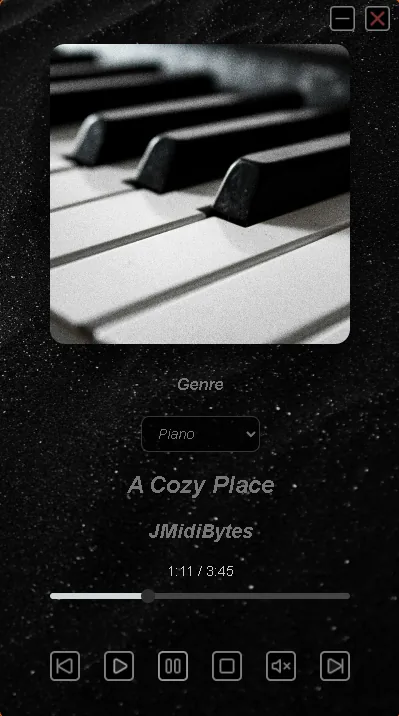
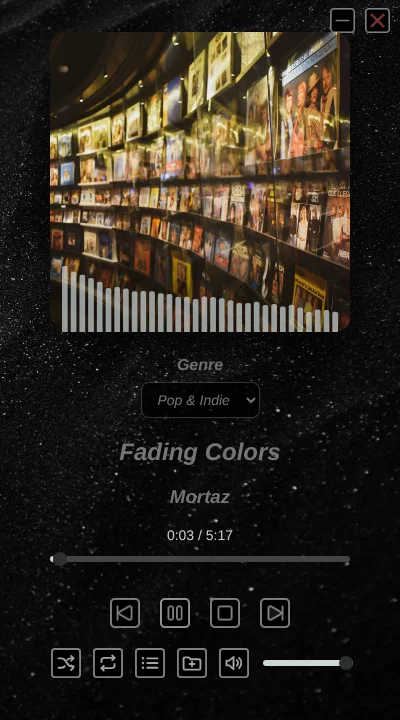
feat: update Kumafy card for v1.1.0

diff --git a/src/data/projects.ts b/src/data/projects.ts
@@ -107,31 +107,35 @@ export const projects: Project[] = [
     title: 'Kumafy',
     context: { es: 'Proyecto personal', en: 'Personal project' },
     summary: {
-      es: 'Reproductor de música de escritorio con ventana propia y tres listas por género',
-      en: 'Desktop music player with a custom window and three genre playlists',
+      es: 'Reproductor de música de escritorio con visualizador de audio en tiempo real, listas por género y la opción de abrir tus propios archivos. También funciona en el navegador',
+      en: 'Desktop music player with a live audio visualizer, genre playlists and the option to open your own files. It also runs in the browser',
     },
     highlights: [
       {
-        es: 'Controles de reproducción, barra de progreso y avance automático',
-        en: 'Playback controls, progress bar and auto-advance',
+        es: 'Archivos locales servidos por un protocolo propio que solo entrega lo que eligió el usuario, con peticiones Range para poder saltar en la canción',
+        en: 'Local files served through a custom protocol that only returns what the user picked, with range requests so seeking works',
       },
       {
-        es: 'Proceso principal y página separados, comunicados por un puente seguro (preload)',
-        en: 'Main process and page kept separate, communicating through a secure bridge (preload)',
+        es: 'Visualizador con la Web Audio API y canvas, teclas multimedia con la Media Session API, shuffle, repeat y atajos de teclado',
+        en: 'Visualizer built with the Web Audio API and canvas, media keys through the Media Session API, shuffle, repeat and keyboard shortcuts',
       },
-      { es: 'Instalador para Windows publicado en Releases', en: 'Windows installer published in Releases' },
+      {
+        es: '59 tests con Vitest y GitHub Actions que pasa la CI, publica la demo web y genera el instalador de Windows al crear una versión',
+        en: '59 Vitest tests and GitHub Actions that run CI, publish the web demo and build the Windows installer for every release',
+      },
     ],
-    stack: ['Electron', 'JavaScript', 'HTML', 'CSS', 'electron-builder'],
+    stack: ['Electron', 'JavaScript', 'HTML', 'CSS', 'Vitest', 'GitHub Actions', 'electron-builder'],
     repo: 'https://github.com/MK-1379/kumafy',
-    download: 'https://github.com/MK-1379/kumafy/releases',
+    demo: 'https://mk-1379.github.io/kumafy/',
+    download: 'https://github.com/MK-1379/kumafy/releases/latest',
     image: {
       src: '/img/projects/kumafy.webp',
       alt: {
-        es: 'Ventana de Kumafy reproduciendo una canción de la lista de piano',
-        en: 'Kumafy window playing a track from the piano playlist',
+        es: 'Ventana de Kumafy reproduciendo una canción de Pop & Indie con el visualizador de audio sobre la portada',
+        en: 'Kumafy window playing a Pop & Indie track with the audio visualizer over the cover',
       },
-      width: 399,
-      height: 716,
+      width: 400,
+      height: 720,
     },
   },
   {

diff --git a/src/data/techIcons.ts b/src/data/techIcons.ts
@@ -28,6 +28,8 @@ export const techIcons: Record<string, TechIcon> = {
   'Maven': { icon: 'maven', iconDark: 'maven-dark' },
   'Electron': { icon: 'electron', iconDark: 'electron-dark' },
   'electron-builder': { icon: 'electron-builder', iconDark: 'electron-builder-dark' },
+  'Vitest': { icon: 'vitest' },
+  'GitHub Actions': { icon: 'githubactions' },
   'Docker': { icon: 'docker' },
   'Git': { icon: 'git' },
 }
